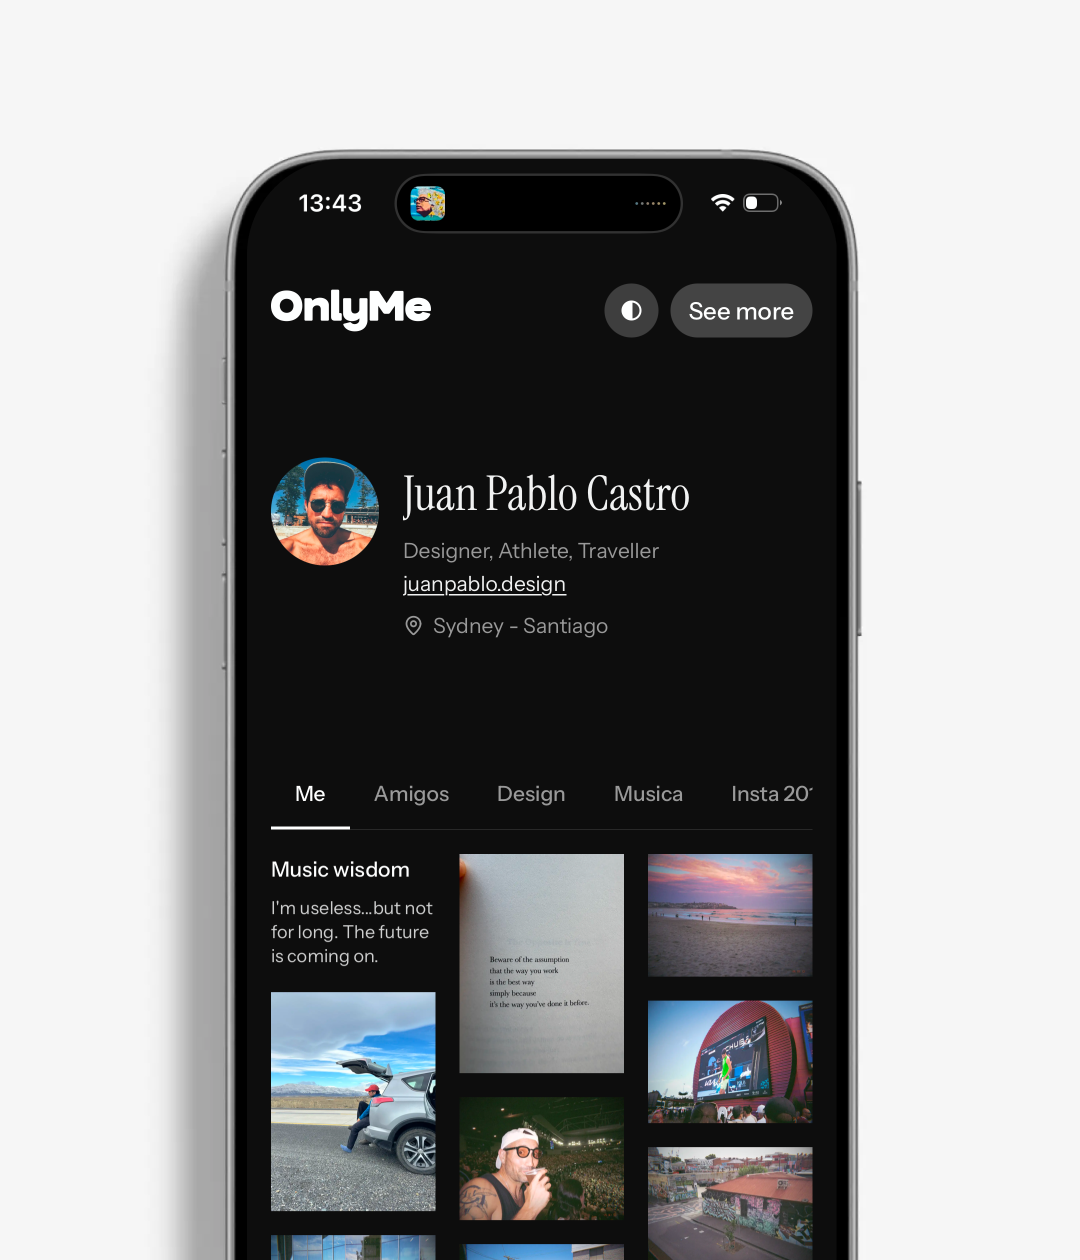
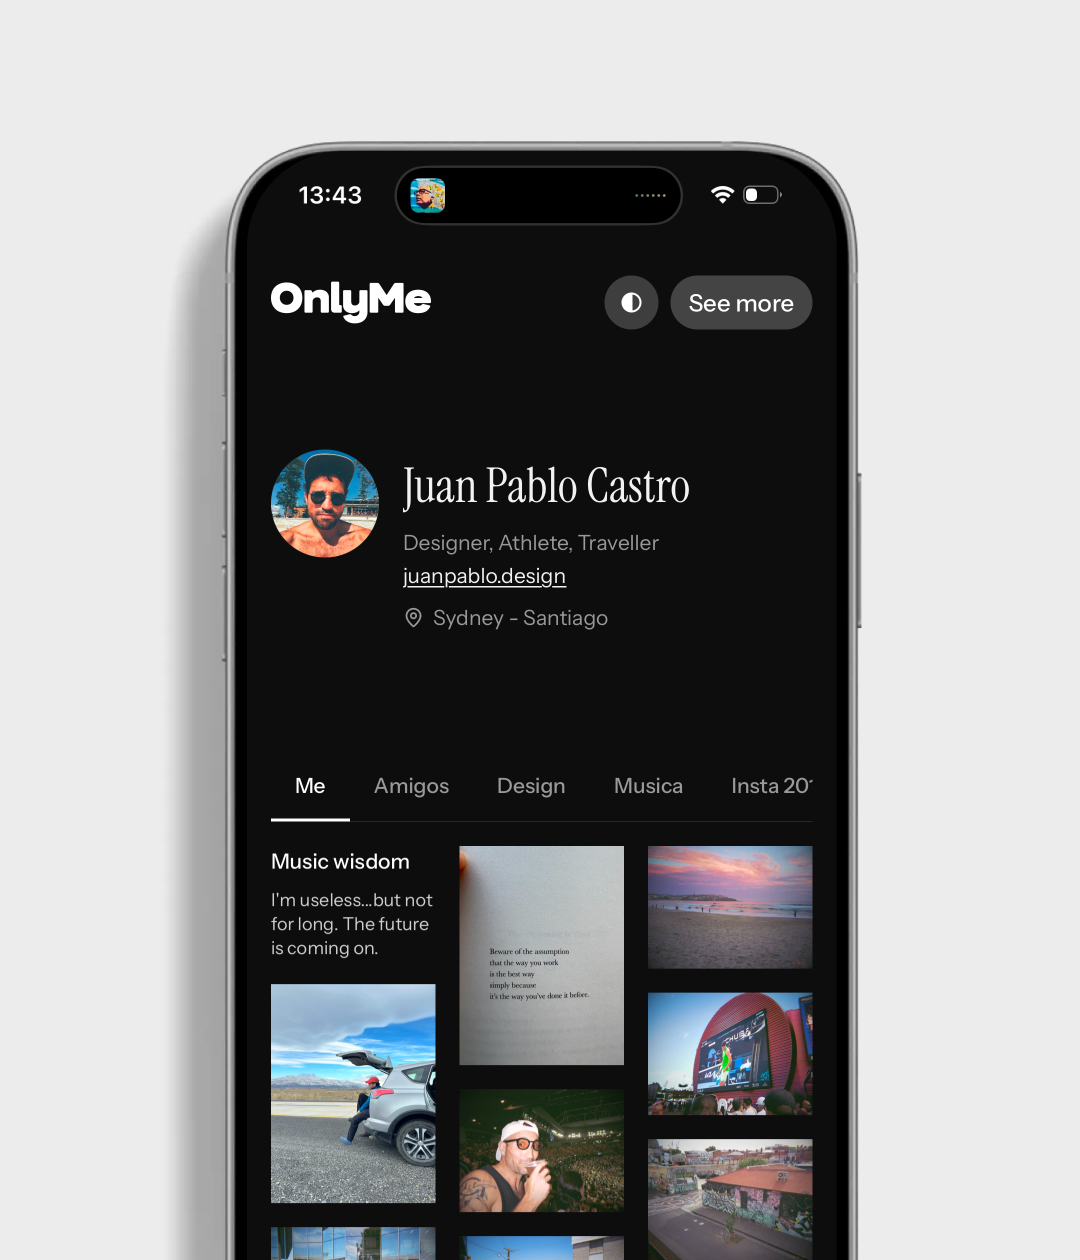
feat: homepage bg token, footer polish, and nav shadow update
- Add --bg-page-home token (--color-gray-50) and scope it to homepage light mode via <style> tag
- Footer: clock labels 300 mobile / 400 desktop, pb-[24px] on clocks wrapper mobile
- Footer: update footer bar copy, make © Globo 2026 weight 400, reduce mobile top padding to 88px
- Update --shadow-nav to 3-layer Figma shadow

diff --git a/components/ui/ContactFooterV3.tsx b/components/ui/ContactFooterV3.tsx
@@ -115,7 +115,7 @@ export const ContactFooterV3 = forwardRef<HTMLElement, ContactFooterV3Props>(
         style={{ backgroundColor: bgColor ?? 'var(--bg-page)', color: textColor }}
         className={cn(
           'relative min-h-lvh flex flex-col',
-          'pt-[104px] md:pt-[118px]',
+          'pt-[88px] md:pt-[118px]',
           'pb-8',
           className,
         )}
@@ -134,7 +134,7 @@ export const ContactFooterV3 = forwardRef<HTMLElement, ContactFooterV3Props>(
               <motion.div variants={itemVariants}>
                 <ContactLinks />
               </motion.div>
-              <motion.div variants={itemVariants}>
+              <motion.div variants={itemVariants} className="pb-[24px] md:pb-0">
                 <InteractiveClocksRowV3 theme={theme} />
               </motion.div>
             </div>
@@ -392,7 +392,7 @@ function SolidClockFace({ timezone, city, clockFace, clockBorder, showCircleBord
       <p
         aria-hidden="true"
         className={cn(
-          'font-sans [font-weight:var(--text-body-light-weight)] text-center w-full',
+          'font-sans [font-weight:var(--text-body-light-weight)] md:[font-weight:var(--text-body-weight)] text-center w-full',
           '[font-size:var(--text-body-mobile-size)] [line-height:var(--text-body-mobile-leading)]',
           'md:[font-size:var(--text-body-size)] md:[line-height:var(--text-body-leading)]',
         )}
@@ -550,21 +550,21 @@ function FooterBar({ onLogoClick, textColor }: { onLogoClick?: () => void; textC
 
         {/* Mobile only: two lines + "Built with" stacked below logo */}
         <div className={cn(textCls, 'flex flex-col items-start md:hidden')}>
-          <span>© Globo 2026</span>
+          <span className="[font-weight:var(--text-body-weight)]">© Globo 2026</span>
           <span>Designer person born in Chile</span>
           <span>Based in Sydney, NSW</span>
-          <span>Built with ♥ and good vibes (coding)</span>
+          <span>Built with obsession and good vibes (coding)</span>
         </div>
 
         {/* Desktop only: stacked lines below logo */}
         <div className={cn(textCls, 'hidden md:flex flex-col items-start')}>
-          <span>© Globo 2026</span>
+          <span className="[font-weight:var(--text-body-weight)]">© Globo 2026</span>
           <span>Designer person born in Chile. Based in Sydney, NSW</span>
         </div>
       </div>
 
       {/* Desktop only: tagline (right) */}
-      <p className={cn(textCls, 'hidden md:block')}>Built with ♥ and good vibes (coding)</p>
+      <p className={cn(textCls, 'hidden md:block')}>Built with obsession and good vibes (coding)</p>
     </div>
   );
 }

diff --git a/styles/tokens.css b/styles/tokens.css
@@ -252,6 +252,7 @@
 
   --bg-page:          var(--color-white);             /* background/page */
   --bg-page-white:    var(--color-white);             /* white variant for project wrappers */
+  --bg-page-home:     var(--color-gray-50);           /* background/page — homepage light mode */
   --bg-nav:           var(--color-black);             /* background/nav-bkg */
   --bg-nav-selected:  var(--color-white);             /* background/nav-selected */
   --bg-nav-hover:     var(--color-gray-600);           /* background/nav-bkg-hover */
@@ -275,8 +276,9 @@
      ------------------------------------------------------- */
 
   --shadow-nav:
-    0px 0px  4px 0px rgba(0, 0, 0, 0.04),
-    0px 8px 16px 0px rgba(0, 0, 0, 0.08);
+    0px 0.733px 0.896px 0px rgba(0, 0, 0, 0.05),
+    0px 3.467px 3.504px 0px rgba(0, 0, 0, 0.09),
+    0px 9px     11px    0px rgba(0, 0, 0, 0.14);
 
   --shadow-pill:
     0px   2px  12px 0px rgba(0, 0, 0, 0.01),

diff --git a/app/page.tsx b/app/page.tsx
@@ -255,6 +255,7 @@ export default function HomePage() {
 
   return (
     <>
+      <style>{`:root:not(.dark) { --bg-page: var(--bg-page-home); }`}</style>
       {/* Fixed navigation — always on top */}
       <Nav
         activeSection={activeSection === 'intro' ? 'hero' : activeSection}
